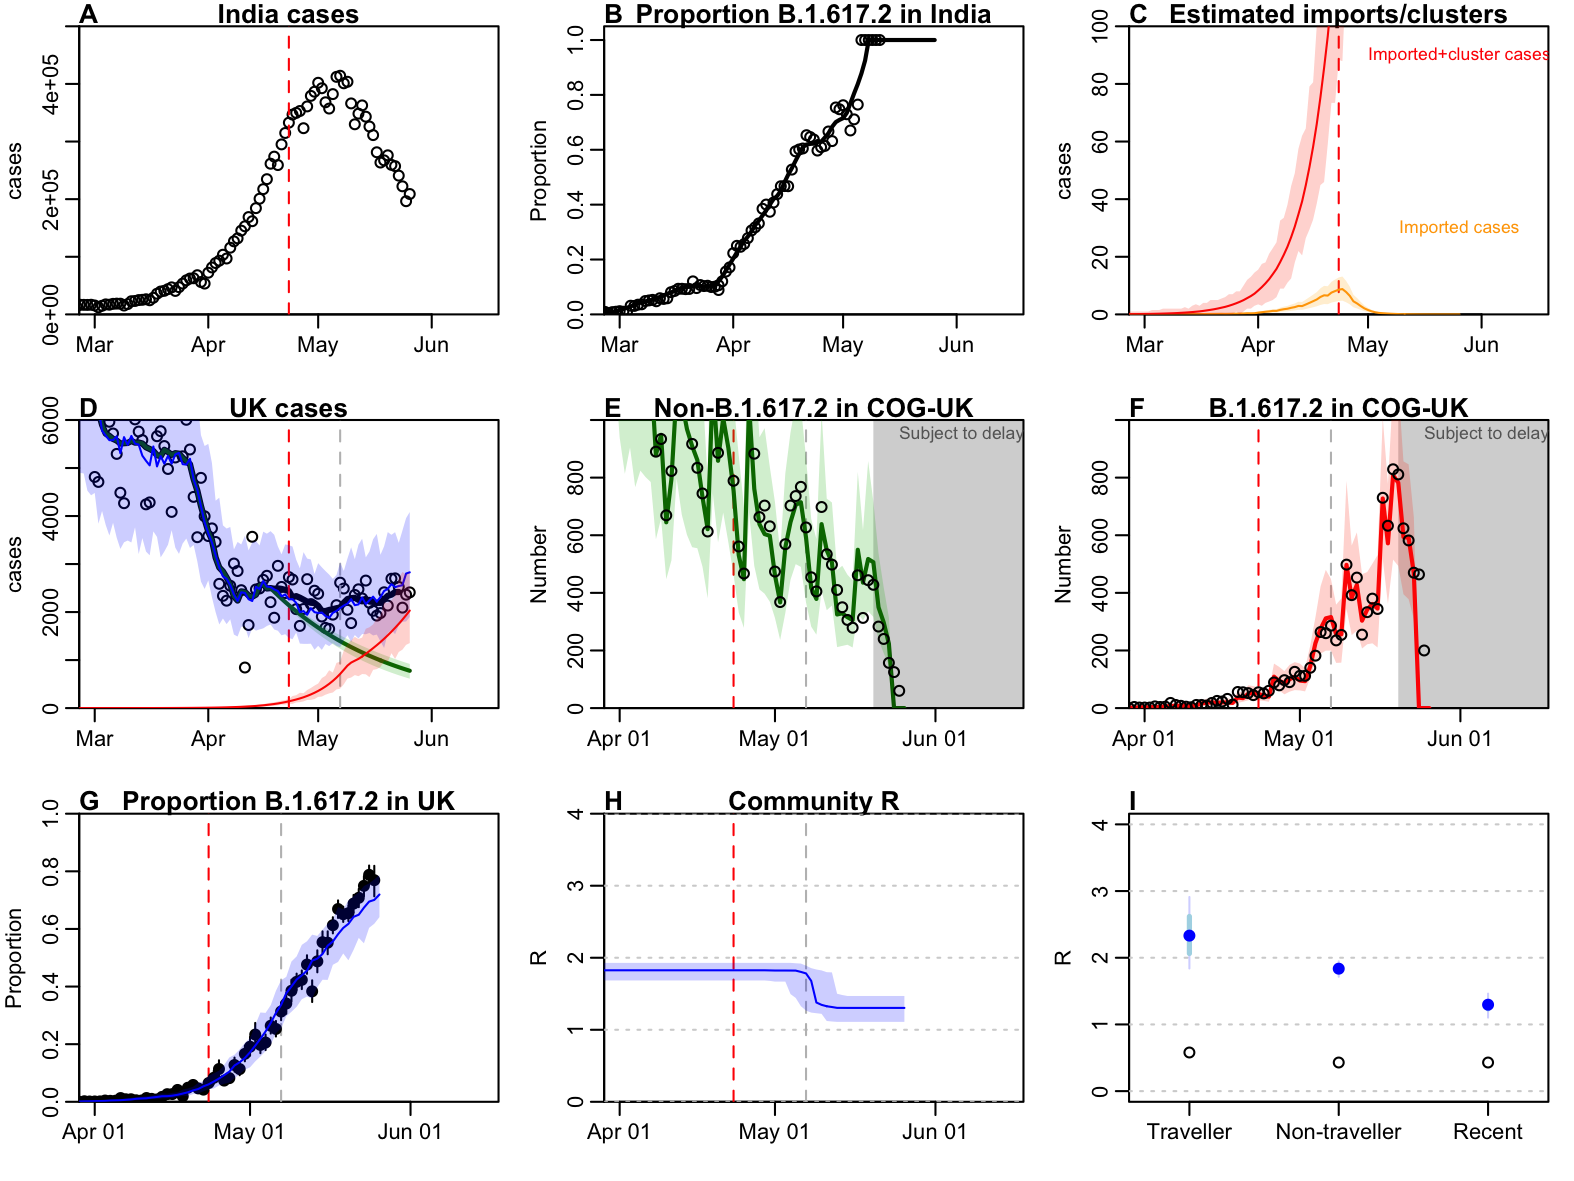
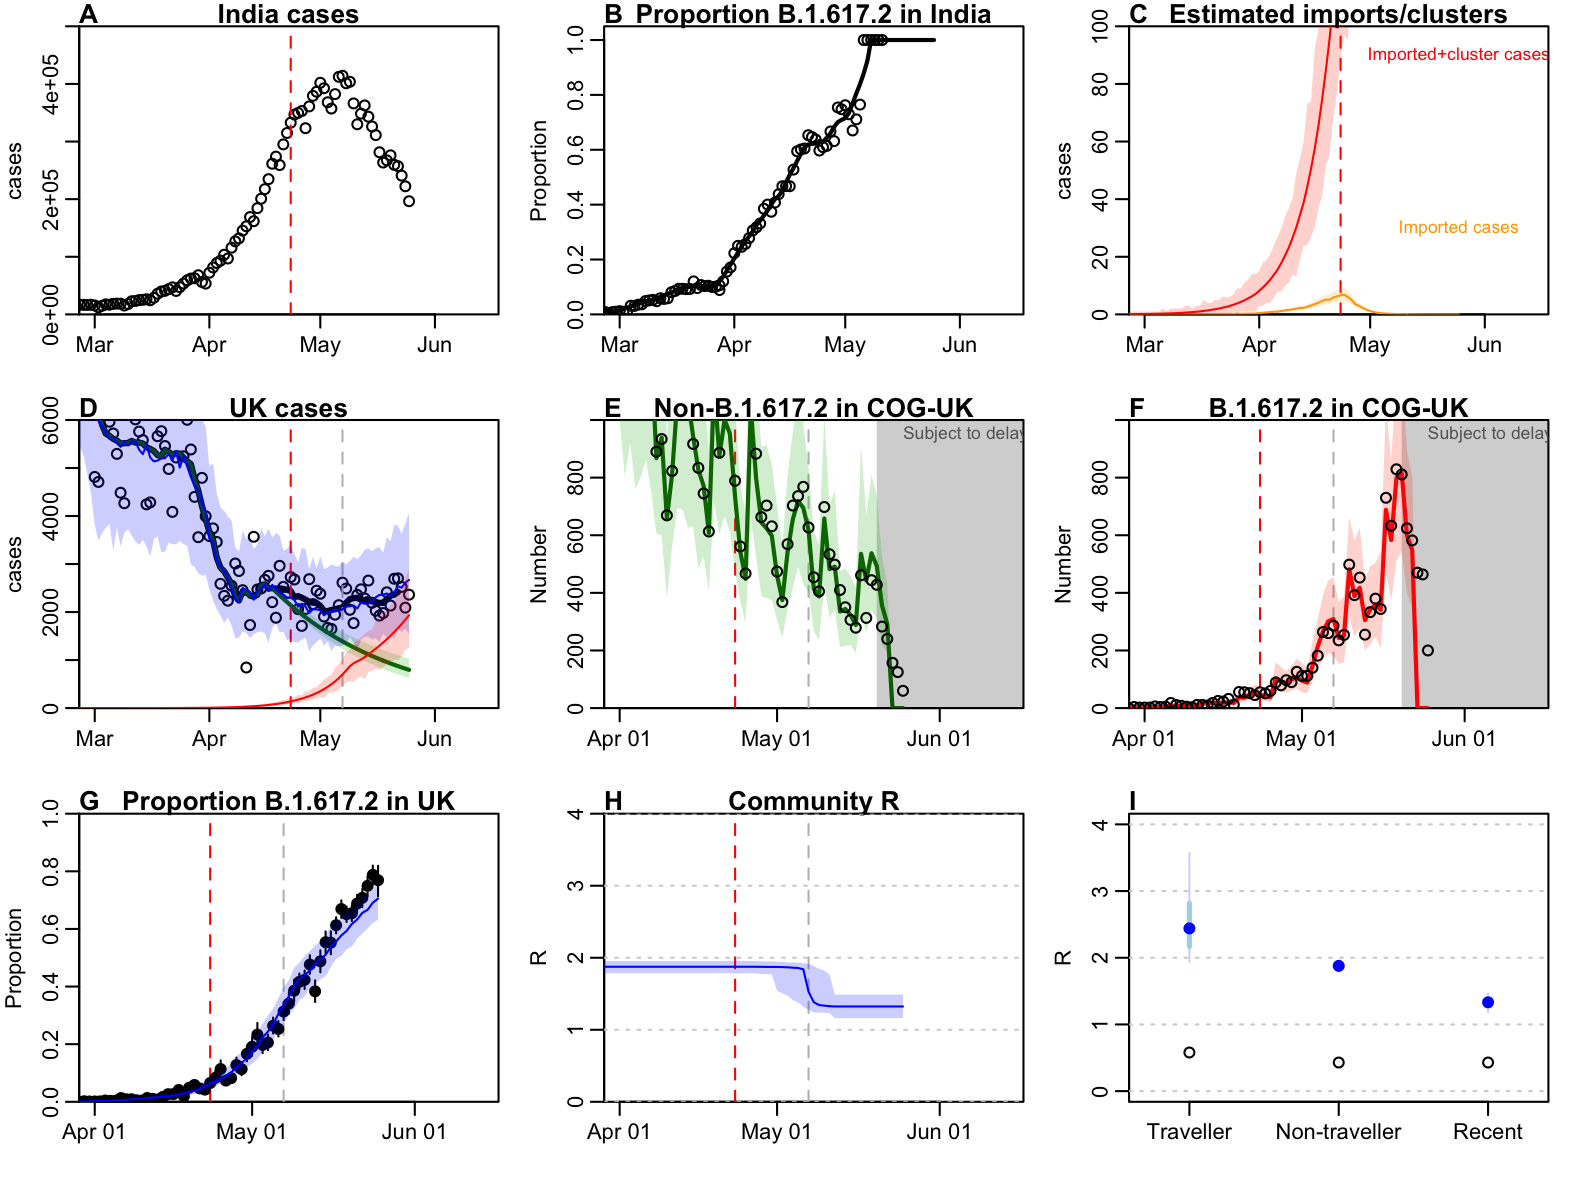
Update plot

diff --git a/topics/covid19/_posts/2021-05-23-import-analysis.md b/topics/covid19/_posts/2021-05-23-import-analysis.md
@@ -39,7 +39,7 @@ authors:
 
 Earlier versions of this analysis: [12th May report](https://www.gov.uk/government/publications/cmmid-covid-19-working-group-modelling-importations-and-local-transmission-of-b16172-in-the-uk-12-may-2021?utm_medium=email&utm_campaign=govuk-notifications&utm_source=44bb4abd-fb1b-42db-b903-08d94dfe0090&utm_content=immediately); [18th May report](reports/2021_05_18_importations.pdf).
 
-Plot below shows results for 2nd June 2021. These results would imply 36% (95% CrI: 16–64%) higher transmission for B.1.617.2 compared to non-B.1.617.2 variants circulating.
+Plot below shows results for 2nd June 2021. These results would suggest 40% (95% CrI: 25–54%) higher transmission for B.1.617.2 compared to non-B.1.617.2 variants circulating.
 
 <img src="figures/2021_06_02_importations.png" width="80%" style="display: block; margin: auto;" />
 
